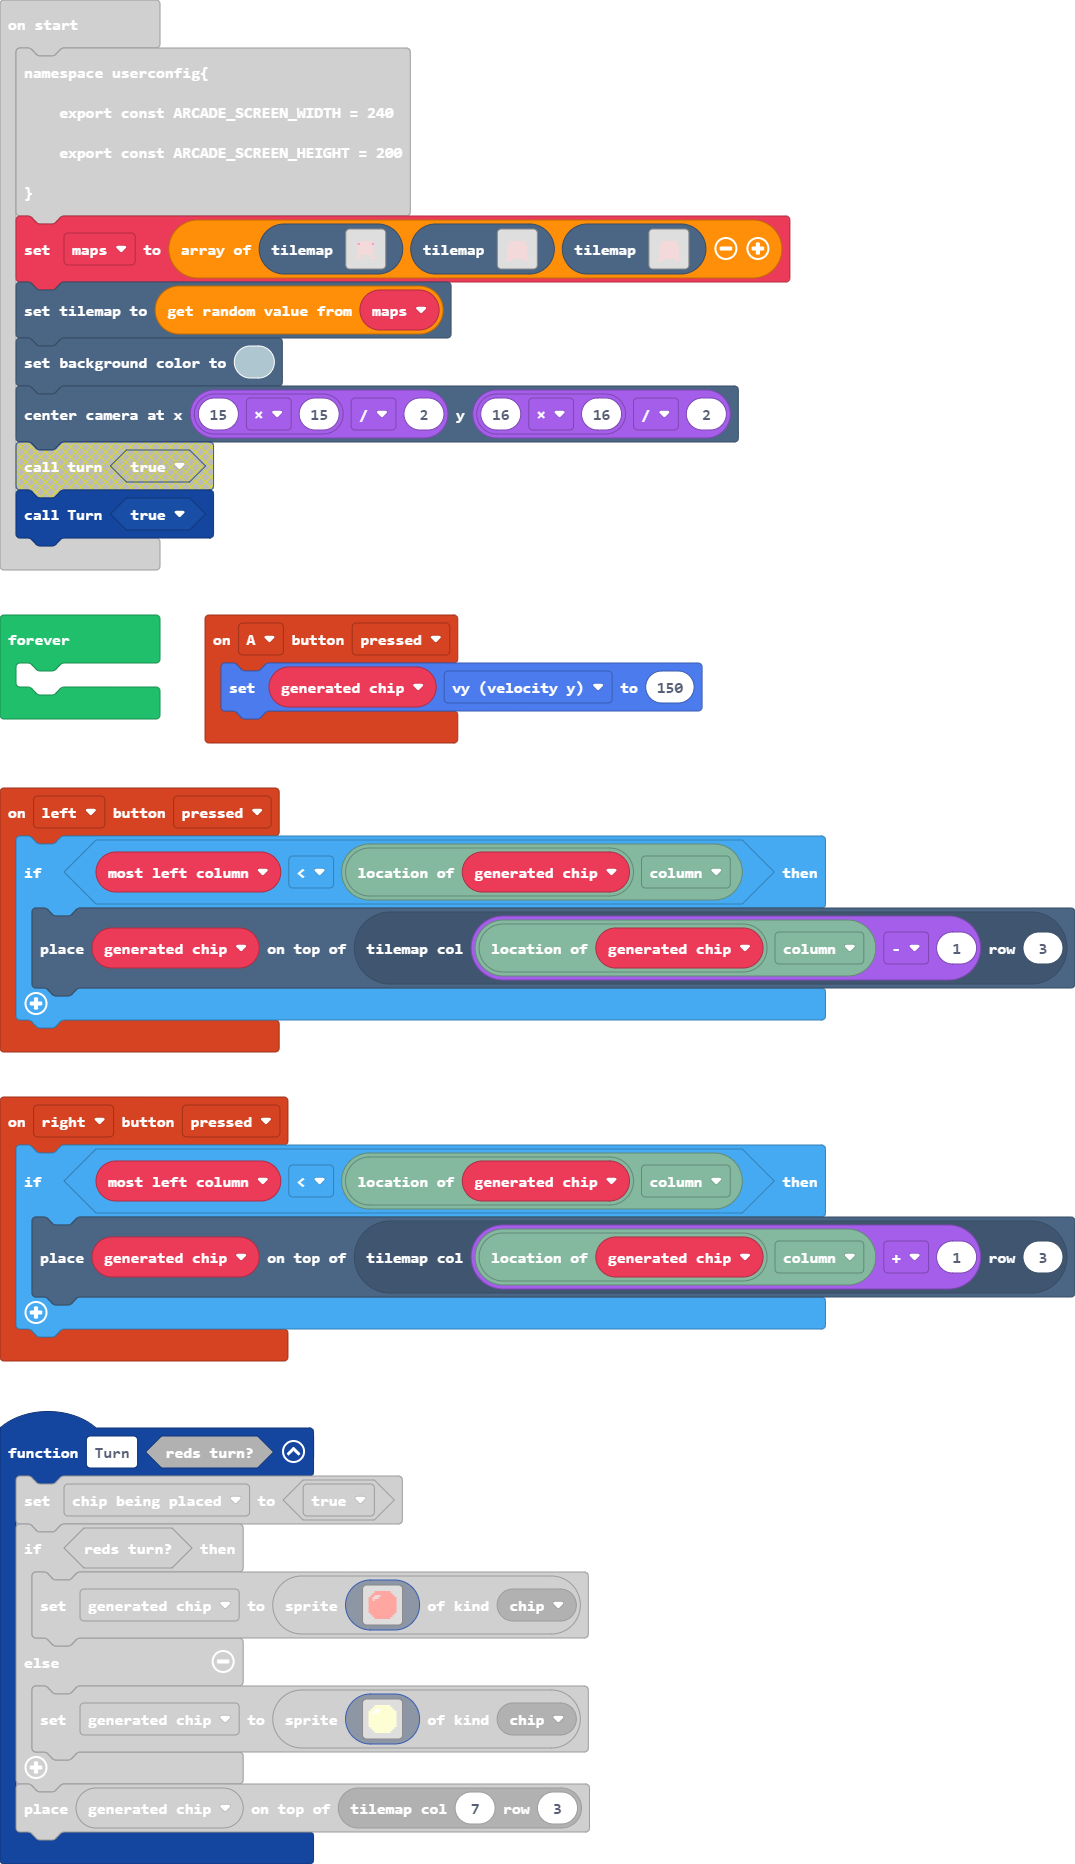
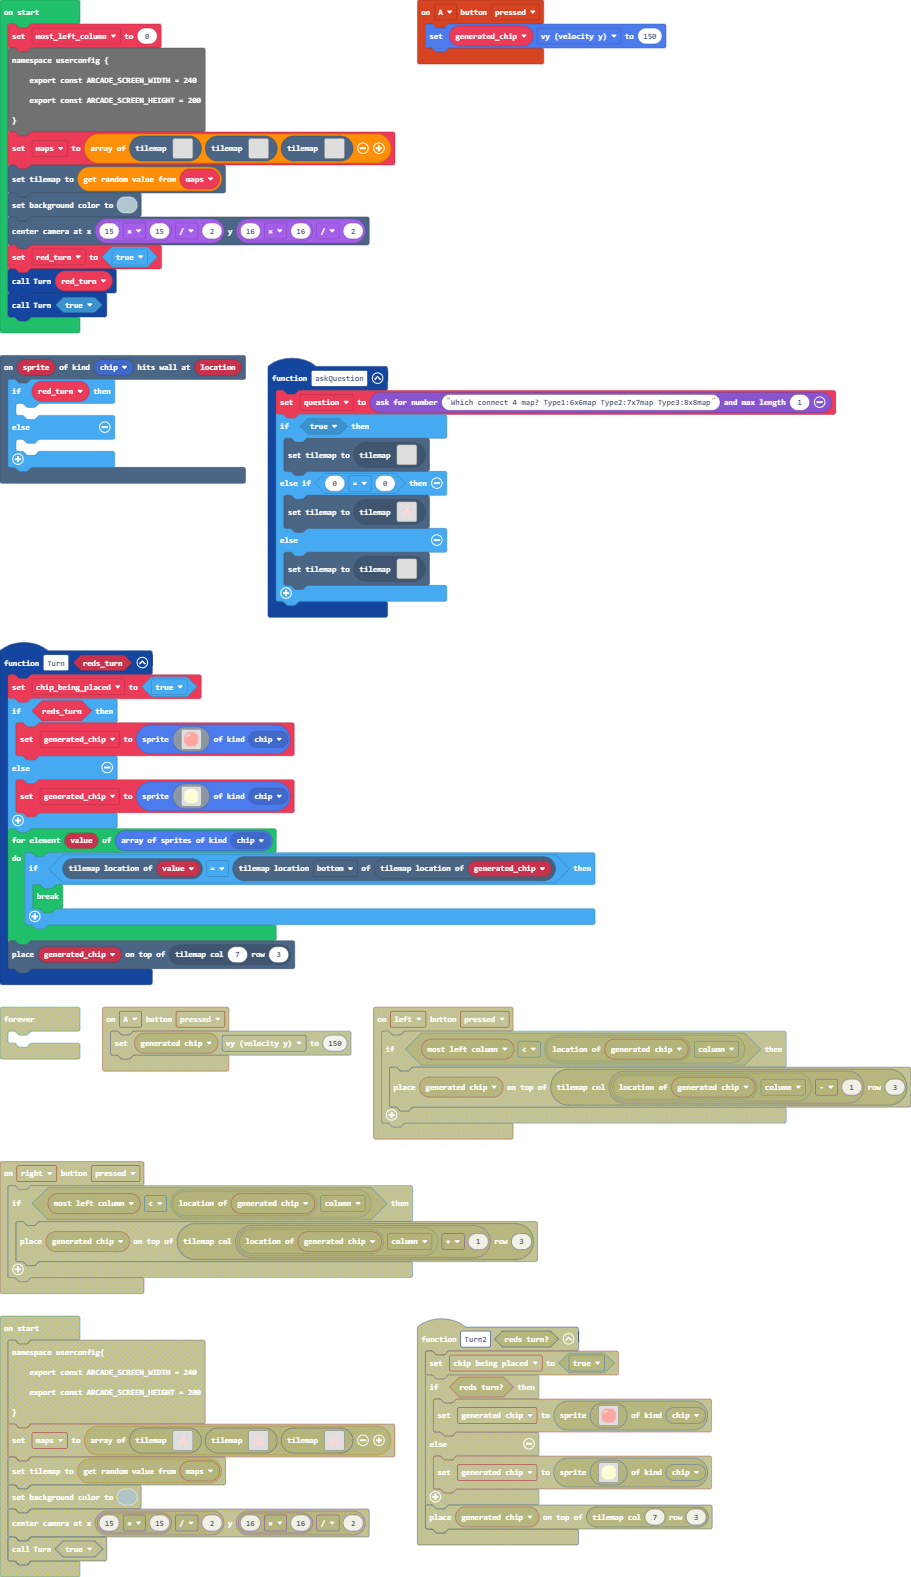
Update pxt.json, main.blocks, main.ts, tilemap.g.jres, tilemap.g.ts

diff --git a/tilemap.g.ts b/tilemap.g.ts
@@ -274,6 +274,101 @@ namespace myTiles {
 . . . . . . . . . . . . . . . . 
 . . . . . . . . . . . . . . . . 
 `, [myTiles.transparency16], TileScale.Sixteen);
+            case "level16":
+            case "level16":return tiles.createTilemap(hex`1000100000000000000000000000000000000000000000000000000000000000000000000000000000000000000000000000000000000000000000000000000000000000000000000000000000000000000000000000000000000000000000000000000000000000000000000000000000000000000000000000000000000000000000000000000000000000000000000000000000000000000000000000000000000000000000000000000000000000000000000000000000000000000000000000000000000000000000000000000000000000000000000000000000000000000000000000000000000000000000000000000000000000000000000000000000000000`, img`
+. . . . . . . . . . . . . . . . 
+. . . . . . . . . . . . . . . . 
+. . . . . . . . . . . . . . . . 
+. . . . . . . . . . . . . . . . 
+. . . . . . . . . . . . . . . . 
+. . . . . . . . . . . . . . . . 
+. . . . . . . . . . . . . . . . 
+. . . . . . . . . . . . . . . . 
+. . . . . . . . . . . . . . . . 
+. . . . . . . . . . . . . . . . 
+. . . . . . . . . . . . . . . . 
+. . . . . . . . . . . . . . . . 
+. . . . . . . . . . . . . . . . 
+. . . . . . . . . . . . . . . . 
+. . . . . . . . . . . . . . . . 
+. . . . . . . . . . . . . . . . 
+`, [myTiles.transparency16], TileScale.Sixteen);
+            case "level17":
+            case "level17":return tiles.createTilemap(hex`1000100000000000000000000000000000000000000000000000000000000000000000000000000000000000000000000000000000000000000000000000000000000000000000000000000000000000000000000000000000000000000000000000000000000000000000000000000000000000000000000000000000000000000000000000000000000000000000000000000000000000000000000000000000000000000000000000000000000000000000000000000000000000000000000000000000000000000000000000000000000000000000000000000000000000000000000000000000000000000000000000000000000000000000000000000000000000`, img`
+. . . . . . . . . . . . . . . . 
+. . . . . . . . . . . . . . . . 
+. . . . . . . . . . . . . . . . 
+. . . . . . . . . . . . . . . . 
+. . . . . . . . . . . . . . . . 
+. . . . . . . . . . . . . . . . 
+. . . . . . . . . . . . . . . . 
+. . . . . . . . . . . . . . . . 
+. . . . . . . . . . . . . . . . 
+. . . . . . . . . . . . . . . . 
+. . . . . . . . . . . . . . . . 
+. . . . . . . . . . . . . . . . 
+. . . . . . . . . . . . . . . . 
+. . . . . . . . . . . . . . . . 
+. . . . . . . . . . . . . . . . 
+. . . . . . . . . . . . . . . . 
+`, [myTiles.transparency16], TileScale.Sixteen);
+            case "level18":
+            case "level18":return tiles.createTilemap(hex`1000100000000000000000000000000000000000000000000000000000000000000000000000000000000000000000000000000000000000000000000000000000000000000000000000000000000000000000000000000000000000000000000000000000000000000000000000000000000000000000000000000000000000000000000000000000000000000000000000000000000000000000000000000000000000000000000000000000000000000000000000000000000000000000000000000000000000000000000000000000000000000000000000000000000000000000000000000000000000000000000000000000000000000000000000000000000000`, img`
+. . . . . . . . . . . . . . . . 
+. . . . . . . . . . . . . . . . 
+. . . . . . . . . . . . . . . . 
+. . . . . . . . . . . . . . . . 
+. . . . . . . . . . . . . . . . 
+. . . . . . . . . . . . . . . . 
+. . . . . . . . . . . . . . . . 
+. . . . . . . . . . . . . . . . 
+. . . . . . . . . . . . . . . . 
+. . . . . . . . . . . . . . . . 
+. . . . . . . . . . . . . . . . 
+. . . . . . . . . . . . . . . . 
+. . . . . . . . . . . . . . . . 
+. . . . . . . . . . . . . . . . 
+. . . . . . . . . . . . . . . . 
+. . . . . . . . . . . . . . . . 
+`, [myTiles.transparency16], TileScale.Sixteen);
+            case "level14":
+            case "level14":return tiles.createTilemap(hex`1000100000000000000000000000000000000000000000000000000000000000000000000000000000000000000000000000000000000000000000000000000000000000000000000000000000000000000000000000000000000000000000000000000000000000000000000000000000000000000000000000000000000000000000000000000000000000000000000000000000000000000000000000000000000000000000000000000000000000000000000000000000000000000000000000000000000000000000000000000000000000000000000000000000000000000000000000000000000000000000000000000000000000000000000000000000000000`, img`
+. . . . . . . . . . . . . . . . 
+. . . . . . . . . . . . . . . . 
+. . . . . . . . . . . . . . . . 
+. . . . . . . . . . . . . . . . 
+. . . . . . . . . . . . . . . . 
+. . . . . . . . . . . . . . . . 
+. . . . . . . . . . . . . . . . 
+. . . . . . . . . . . . . . . . 
+. . . . . . . . . . . . . . . . 
+. . . . . . . . . . . . . . . . 
+. . . . . . . . . . . . . . . . 
+. . . . . . . . . . . . . . . . 
+. . . . . . . . . . . . . . . . 
+. . . . . . . . . . . . . . . . 
+. . . . . . . . . . . . . . . . 
+. . . . . . . . . . . . . . . . 
+`, [], -Infinity);
+            case "level15":
+            case "level15":return tiles.createTilemap(hex`1000100000000000000000000000000000000000000000000000000000000000000000000000000000000000000000000000000000000000000000000000000000000000000000000000000000000000000000000000000000000000000000000000000000000000000000000000000000000000000000000000000000000000000000000000000000000000000000000000000000000000000000000000000000000000000000000000000000000000000000000000000000000000000000000000000000000000000000000000000000000000000000000000000000000000000000000000000000000000000000000000000000000000000000000000000000000000`, img`
+. . . . . . . . . . . . . . . . 
+. . . . . . . . . . . . . . . . 
+. . . . . . . . . . . . . . . . 
+. . . . . . . . . . . . . . . . 
+. . . . . . . . . . . . . . . . 
+. . . . . . . . . . . . . . . . 
+. . . . . . . . . . . . . . . . 
+. . . . . . . . . . . . . . . . 
+. . . . . . . . . . . . . . . . 
+. . . . . . . . . . . . . . . . 
+. . . . . . . . . . . . . . . . 
+. . . . . . . . . . . . . . . . 
+. . . . . . . . . . . . . . . . 
+. . . . . . . . . . . . . . . . 
+. . . . . . . . . . . . . . . . 
+. . . . . . . . . . . . . . . . 
+`, [], -Infinity);
         }
         return null;
     })

diff --git a/main.ts b/main.ts
@@ -3,15 +3,15 @@ namespace SpriteKind {
 }
 scene.onHitWall(SpriteKind.chip, function (sprite, location) {
     if (red_turn) {
-
+    	
     } else {
-
+    	
     }
 })
 controller.A.onEvent(ControllerButtonEvent.Pressed, function () {
     generated_chip.vy = 150
 })
-function Turn(reds_turn: boolean) {
+function Turn (reds_turn: boolean) {
     chip_being_placed = true
     if (reds_turn) {
         generated_chip = sprites.create(img`
@@ -59,12 +59,12 @@ function Turn(reds_turn: boolean) {
     }
     tiles.placeOnTile(generated_chip, tiles.getTileLocation(7, 3))
 }
-function askQuestion() {
+function askQuestion () {
     question = game.askForNumber("Which connect 4 map? Type1:6x6map Type2:7x7map Type3:8x8map", 1)
     if (true) {
         tiles.setCurrentTilemap(tilemap`level10`)
     } else if (0 == 0) {
-        tiles.setCurrentTilemap(tilemap`level11`)
+        tiles.setCurrentTilemap(tilemap`6x6 connect 4`)
     } else {
         tiles.setCurrentTilemap(tilemap`level12`)
     }
